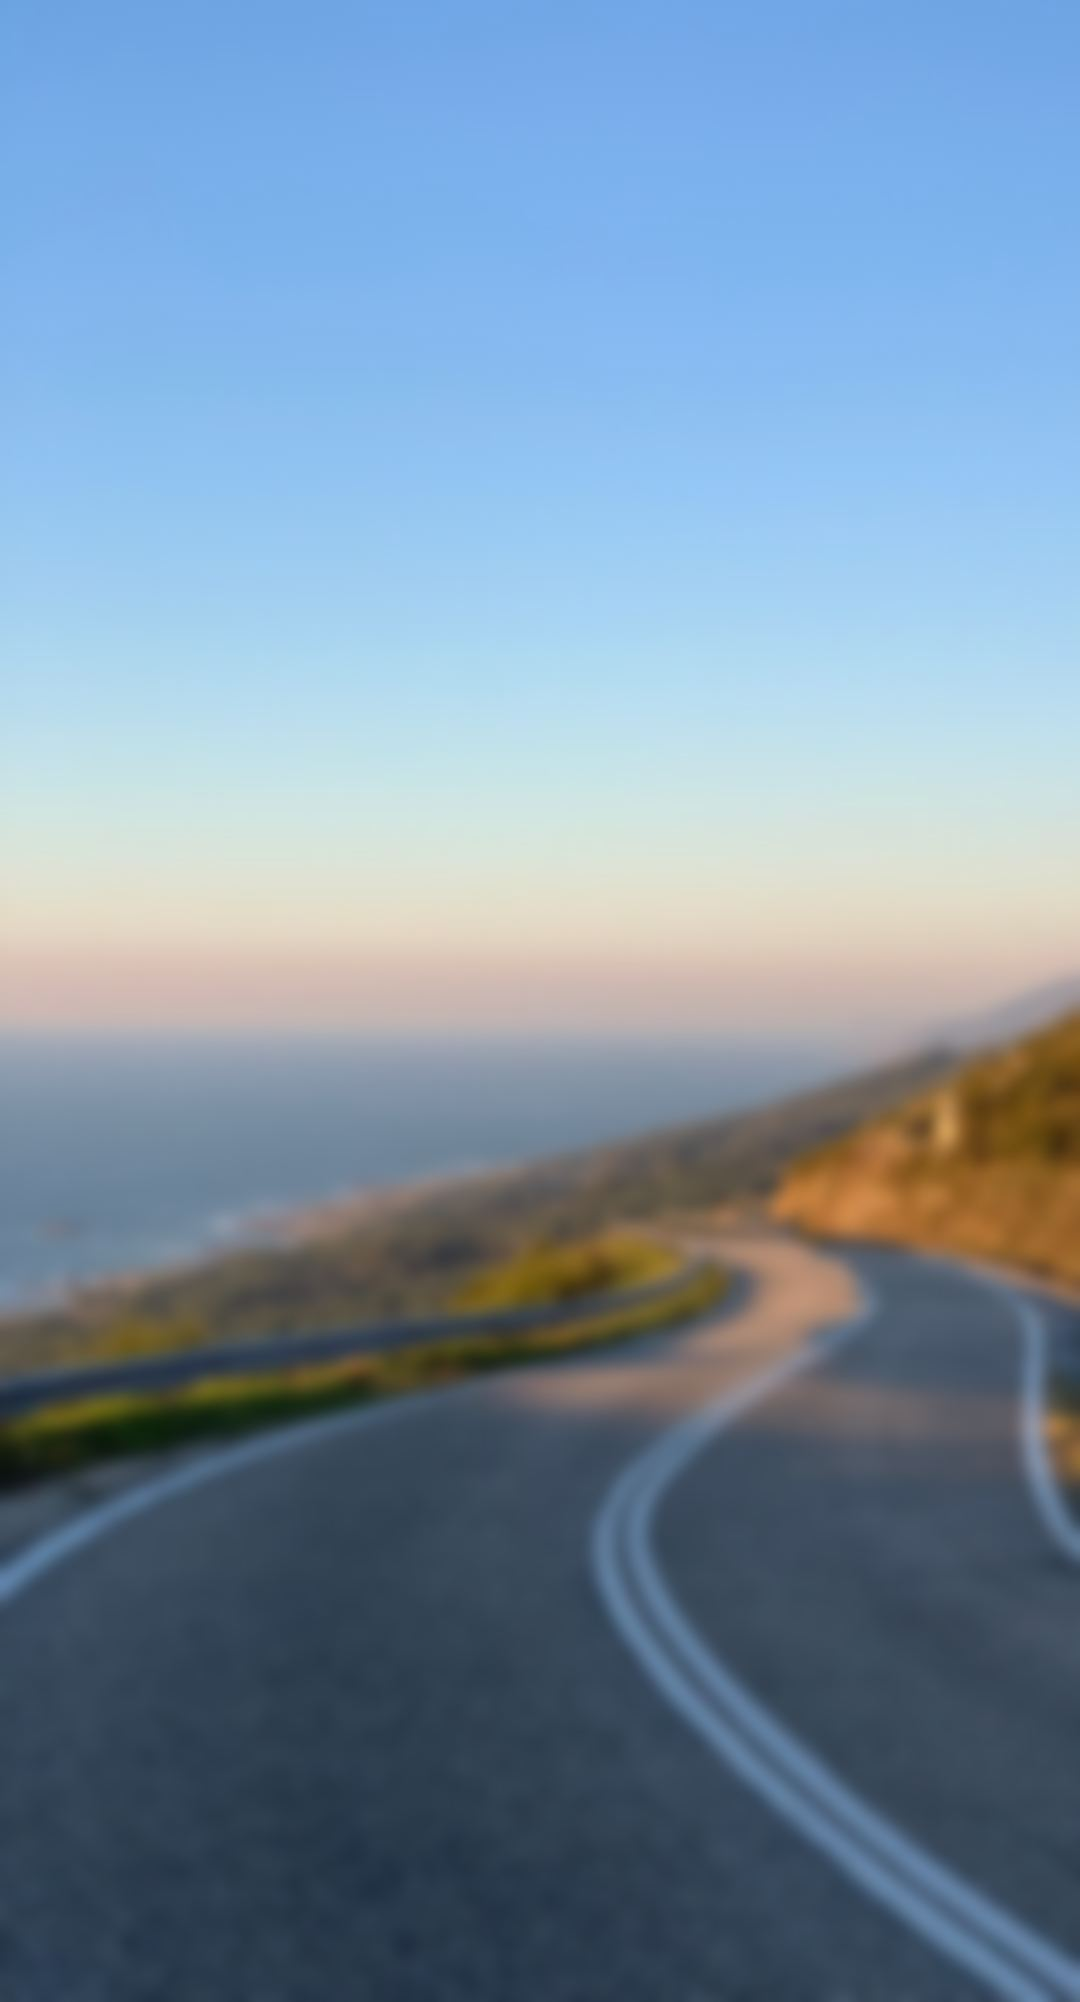
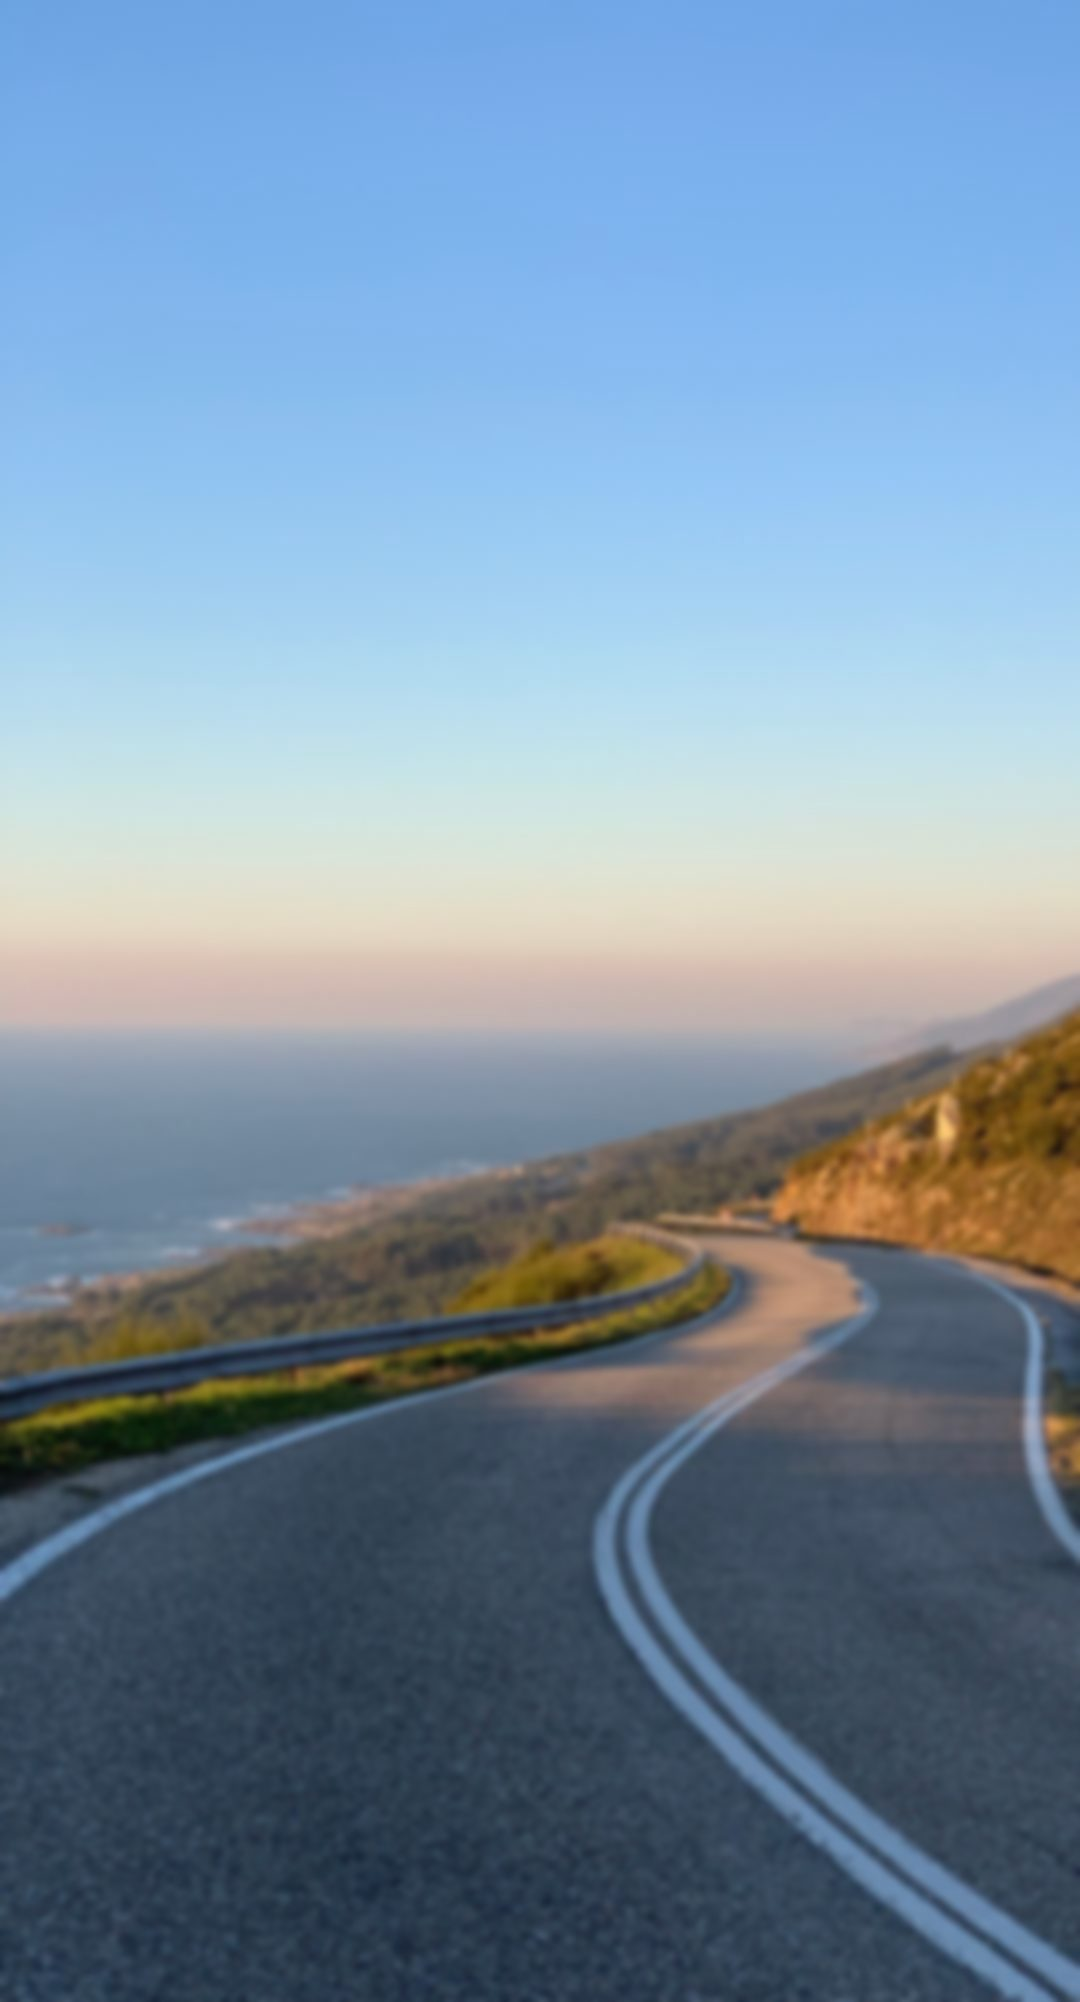
Let the meter follow the music, and let the moods show
The Equalizer's bars were started and stopped by hand from the play
button and from opening the mode, so every other route into a playing
state left them dead — opening onto music already running, the
mini-player, and the foreground re-sync adopting Spotify's own state.
One effect owns them now. Equalizer was the only mode wired this way.

Measuring the backgrounds split the complaint in two: the blurred assets
kept only 4-8% of the originals' detail while their brightness was
untouched, so the blur was the assets and the darkness was the scrim.
Assets regenerated at a third of the blur, scrim eased where it covers
nothing but the picture.

Claude-Session: https://claude.ai/code/session_01QfXMCYhSHowDeZKzYgKa2H

diff --git a/src/components/EqualizerMode.tsx b/src/components/EqualizerMode.tsx
@@ -286,9 +286,6 @@ export function EqualizerFullscreen({ visible, onClose, stationId }: { visible: 
     if (!visible) return;
     if (stationId) setActiveStation(stationId);
     slideY.setValue(winH);
-    // Respect the session's play state — a browse from the Modes tab opens
-    // paused, so the bars hold still until the user presses play.
-    if (playing) startBarAnims(fsValues, isLandscape ? lsBellMaxH : fsBellMaxH, FS_MIN_H, timers);
     Animated.spring(slideY, { toValue: 0, tension: 50, friction: 12, useNativeDriver: true }).start();
     // Pulse the close button once to draw attention
     closePulse.setValue(1);
@@ -303,14 +300,27 @@ export function EqualizerFullscreen({ visible, onClose, stationId }: { visible: 
     };
   }, [visible]);
 
-  // ── Restart bar heights when orientation flips ────────────────────────────
+  /**
+   * The meter follows `playing`, wherever it changed.
+   *
+   * It used to be driven only by the play button and by opening the mode, so
+   * anything ELSE that set the play state left the bars sitting dead: opening
+   * onto music that was already going, the mini-player's button, and the
+   * foreground re-sync adopting Spotify's own state. The owner's report was
+   * exactly that (03.08) — "it only animates when you press play even though
+   * a song is running… you'd have to stop the song and replay", which then
+   * looks like Spotify snoozing because the restart takes a beat.
+   *
+   * One effect for every path, so a new caller can't miss it. Orientation is
+   * in here too: the bell curve is sized per orientation, so a turn has to
+   * restart them anyway.
+   */
   useEffect(() => {
     if (!visible) return;
     stopBarAnims(fsValues, timers);
-    if (playing) {
-      startBarAnims(fsValues, isLandscape ? lsBellMaxH : fsBellMaxH, FS_MIN_H, timers);
-    }
-  }, [isLandscape]);
+    if (playing) startBarAnims(fsValues, isLandscape ? lsBellMaxH : fsBellMaxH, FS_MIN_H, timers);
+    return () => stopBarAnims(fsValues, timers);
+  }, [visible, playing, isLandscape]);
 
   // ── Ambient glow breathes slowly while the music plays — steady and calm,
   //    with no microphone involved. ──
@@ -345,15 +355,10 @@ export function EqualizerFullscreen({ visible, onClose, stationId }: { visible: 
   });
 
   const togglePlay = () => {
-    if (playing) {
-      stopBarAnims(fsValues, timers);
-      setPlaying(false);
-      spotify.pause();
-    } else {
-      startBarAnims(fsValues, isLandscape ? lsBellMaxH : fsBellMaxH, FS_MIN_H, timers);
-      setPlaying(true);
-      spotify.play();
-    }
+    // The bars are not touched here — the effect above owns them, so every
+    // route into a play state animates, not just this button.
+    if (playing) { setPlaying(false); spotify.pause(); }
+    else { setPlaying(true); spotify.play(); }
   };
 
   const topPad    = Math.max(insets.top, 20);
@@ -415,13 +420,19 @@ export function EqualizerFullscreen({ visible, onClose, stationId }: { visible: 
   const background = (
     <>
       <StationBackdrop station={currentStation} blurRadius={2.5} />
+      {/* Eased 03.08 (owner: "all mood backgrounds have been heavily blurred
+          and darkened… it sort of makes the mood themes insignificant"). The
+          foot still has to carry white type and the transport, so it keeps
+          most of its weight; the top two thirds — which carry nothing but the
+          station's own picture — give theirs up. Paired with a lighter blur
+          on the assets themselves (radius ~8 -> 3.5). */}
       <LinearGradient
         colors={[
-          'rgba(2,2,12,0.20)',
-          'rgba(2,2,12,0.15)',
-          'rgba(2,2,12,0.30)',
+          'rgba(2,2,12,0.10)',
+          'rgba(2,2,12,0.06)',
+          'rgba(2,2,12,0.18)',
+          'rgba(2,2,12,0.32)',
           'rgba(2,2,12,0.46)',
-          'rgba(2,2,12,0.58)',
         ]}
         locations={[0, 0.4, 0.65, 0.85, 1]}
         start={{ x: 0.5, y: 0 }} end={{ x: 0.5, y: 1 }}

diff --git a/src/components/VinylMode.tsx b/src/components/VinylMode.tsx
@@ -1237,11 +1237,11 @@ export function VinylFullscreen({ visible, onClose, stationId }: { visible: bool
         <StationBackdrop station={station} blurRadius={2.5} />
         <LinearGradient
           colors={[
-            'rgba(2,2,12,0.20)',
-            'rgba(2,2,12,0.15)',
-            'rgba(2,2,12,0.30)',
+            'rgba(2,2,12,0.10)',
+            'rgba(2,2,12,0.06)',
+            'rgba(2,2,12,0.18)',
+            'rgba(2,2,12,0.32)',
             'rgba(2,2,12,0.46)',
-            'rgba(2,2,12,0.58)',
           ]}
           locations={[0, 0.4, 0.65, 0.85, 1]}
           start={{ x: 0.5, y: 0 }} end={{ x: 0.5, y: 1 }}

diff --git a/AGENTS.md b/AGENTS.md
@@ -137,6 +137,8 @@ The owner does not code — describe changes in plain English, Claude implements
   ROOT CAUSE, and it is a documentation failure rather than a code one: the resubmission steps written on 02.08 correctly say to build the store binary with `--profile production` — but EVERY EAS build shows up in TestFlight, so the owner installed it, and a production-profile build listens on the production channel. Nothing warns you. The app simply stops improving, which is indistinguishable from "the fixes didn't work". Note this is NOT the pinned-runtime trap (runtimeVersion was 1.0.0 on both builds and matched perfectly) — the runtime was never the problem, the CHANNEL was, and the workflow's runtime guard passed happily because a preview build was indeed listening.
   RULE, now written into docs/launch/app-store-submission.md next to the build command: the owner's phone stays on the newest `testflight`-profile build; a `production`-profile build is for the store and must never be installed from TestFlight onto the testing phone. Getting back is free — TestFlight keeps the older build under **Previous Builds**, and reinstalling it rejoins the preview channel, at which point the already-published updates land on the next launch. The alternative, publishing to the production channel, is the one thing to weigh rather than reach for: it changes the app Apple is looking at if that build is in review.
   RESOLVED SAME EVENING, and the production channel was deliberately published to: the owner's point was that build 14 is the binary APPLE will run, and she wanted the reviewer to see the song picker and the mood picker rather than the barer version baked into it. The standing "never publish to production during review" note was raised first and she reaffirmed the request, so it stands as her call, not a slip — recorded here because the next person will read that rule and should know it has been consciously set aside once. VERIFIED after publishing rather than assumed: `eas channel:view production` now shows an update group at Runtime Version **1.0.0** against build 14's own Runtime Version **1.0.0**, an exact match, which is the only thing that decides whether an update is ever fetched. Worth knowing for next time: OTA is check-on-launch / apply-on-NEXT-launch, so the app has to be opened, fully closed and opened again before the change appears — on a phone or on a reviewer's device.
+- TWO OFF A REAL DRIVE 2026-08-03, evening (OTA): (1) THE EQUALIZER ONLY ANIMATED IF YOU PRESSED PLAY. Owner: "it only animates when you press play even though a song is running… you'd have to stop the song and replay, but replaying takes a second — which makes it seem like Spotify snoozed off". Real, and Equalizer was the ONLY mode with it: its bar loops were driven IMPERATIVELY from exactly two places, `togglePlay` and the open effect, with a third for orientation. So every OTHER route into a playing state left the meter dead — opening onto music already going, the mini-player's play button, and the AppState foreground re-sync adopting Spotify's own state. Replaced with ONE declarative effect on `[visible, playing, isLandscape]`; `togglePlay` no longer touches the bars at all, so a new caller cannot miss it. Checked the other seven while in there: Cassette and Vinyl have real `[playing]` effects, Horizon and Circular EQ read a `playingRef` inside a continuously-running rAF loop (so a change takes effect the next frame, no restart needed), and CD/Mirror Ball gate on a `spinning` derived from playing. Only Equalizer was hand-wired.
+  (2) THE MOODS WERE BURIED. Owner: "all mood backgrounds have been heavily blurred and darkened… it sort of makes the mood themes insignificant." MEASURED before touching anything, which split it into two separate causes: the pre-blurred assets in `assets/stations/blur/` retained only 4-8% of the originals' detail (matching a ~radius-8 gaussian on a 1080-wide image) while their mean luminance was IDENTICAL to the sharp originals — so the blur was the assets and the darkness was NOT. Assets regenerated at RADIUS 3.5, picked by rendering 8/5/3.5/2.5 side by side on four stations and looking: at 2.5 the detail starts competing with the mode's own object, at 5 the scene still reads as colour rather than place. 612KB -> 774KB total, all still JPEG and well inside the ~600KB-per-file rule. NOTE the live `blurRadius` prop stays unused for stations that have a blur asset — re-blurring on the main thread every re-display is what got the app SIGKILLed once already (see StationBackdrop's comment); to change the blur, regenerate the assets. The DARKNESS is the 5-stop scrim, which only EqualizerMode and VinylMode carry (the other six rely on the backdrop alone) — eased 0.20/0.15/0.30/0.46/0.58 -> 0.10/0.06/0.18/0.32/0.46, keeping most of the weight at the foot where white type and the transport sit and giving up the top two thirds, which carry nothing but the picture.
 - FOUR ITEMS OFF A REAL DRIVE 2026-08-03 (OTA), and item 1 is a bug that had been latent in ALL EIGHT MODES since the day pull-to-dismiss was written.
   (1) THE PAGE FREEZES AFTER DRAGGING A CARD AWAY. Owner: "Every time I leave the station card… by dragging the card down to the bottom. The whole page likes to freeze and not let me scroll immediately… I keep swiping up and down to get the page moving, or I cross out the song playing, or I eventually leave and fully close the app." Every clause of that is a symptom of ONE cause. iOS CANCELS a touch that leaves the bottom edge of the screen rather than releasing it — and dragging a card "down to the bottom" is exactly that gesture. All eight modes' `dismissPan` defined `onPanResponderRelease` and NOTHING ELSE, so a cancelled gesture simply stopped: `slideY` stayed parked wherever the finger left it, the mode stayed `visible` with its content translated off-screen, and its transparent modal window stayed over the app. Taps fell through to the page beneath (hence the tab bar still working — which she used as her "is the app dead?" test) while scrolling did not; swiping again re-grabbed the stranded card and closed it properly; the mini-player ✕ ended the session and unmounted it; force-quitting did the same. FIX: every mode now has `onPanResponderTerminationRequest: () => false` plus an `onPanResponderTerminate` that runs the SAME `settleDismiss(g)` as release — past the threshold it closes, otherwise it springs back, so the card can never be left stranded. The close also goes through a `dismissCloseRef` now, because these responders are built once with `useRef` and were closing over the first render's `winH` (wrong after a rotation). CD's own disc responder had a related defect — its terminate branch sprang back unconditionally instead of settling — and now shares the one rule via `settleDismissRef`.
   STILL OPEN, AND REPRODUCIBLE: in the web build, dismissing **CD** leaves the Modes page's scroller refusing `scrollTop` — deterministically, CD only (the other seven pass), not order-dependent, not transient at +4s, with no full-screen layer left behind, no stranded modal, and `body{overflow:hidden}` identical across all eight so that is not it. Harness scratchpad/dismiss8.mjs (opens each mode, drags off the bottom edge, then probes every scrollable div). CD is the only mode whose object claims touches on START with capture and refuses termination, which is the obvious suspect but is NOT yet proven. Do not "fix" it by guessing — reproduce with that harness first.
